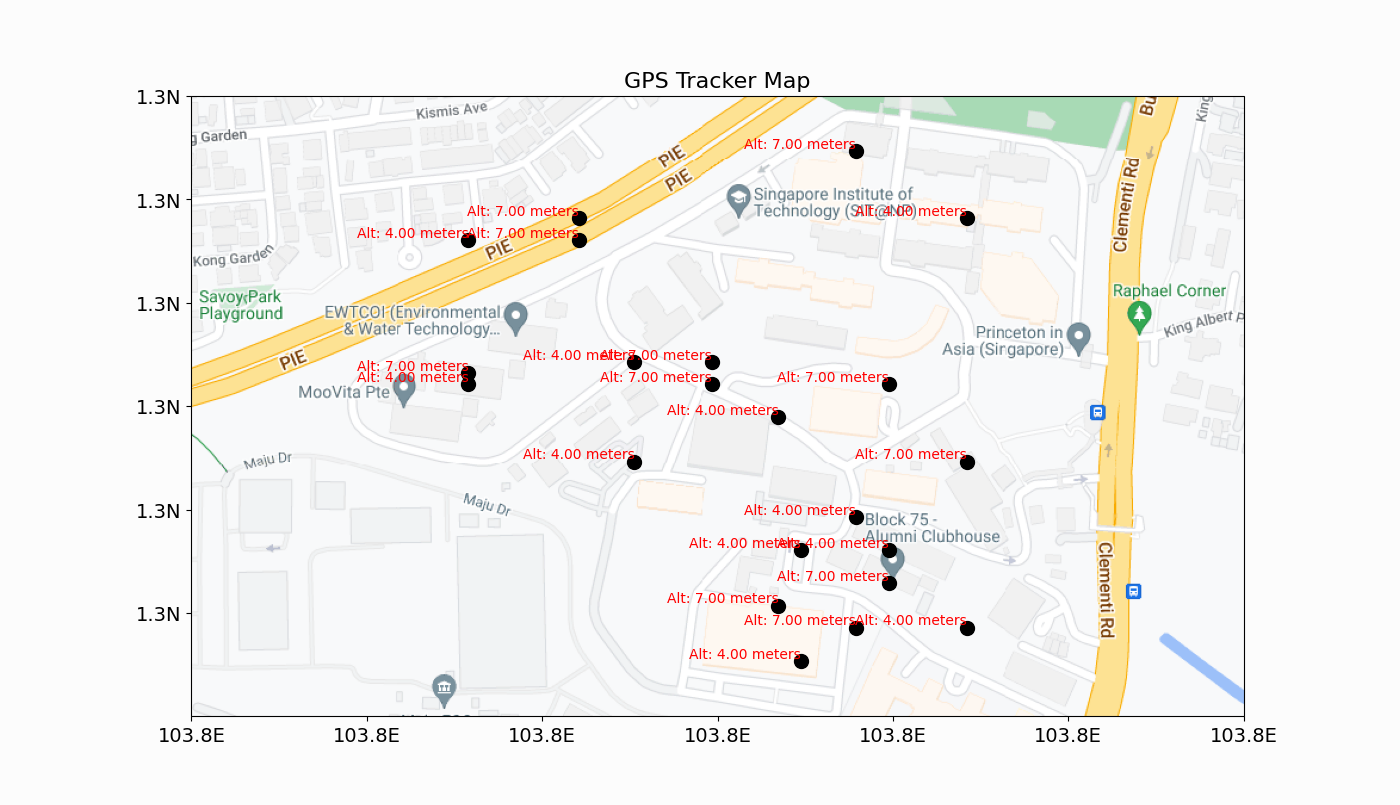
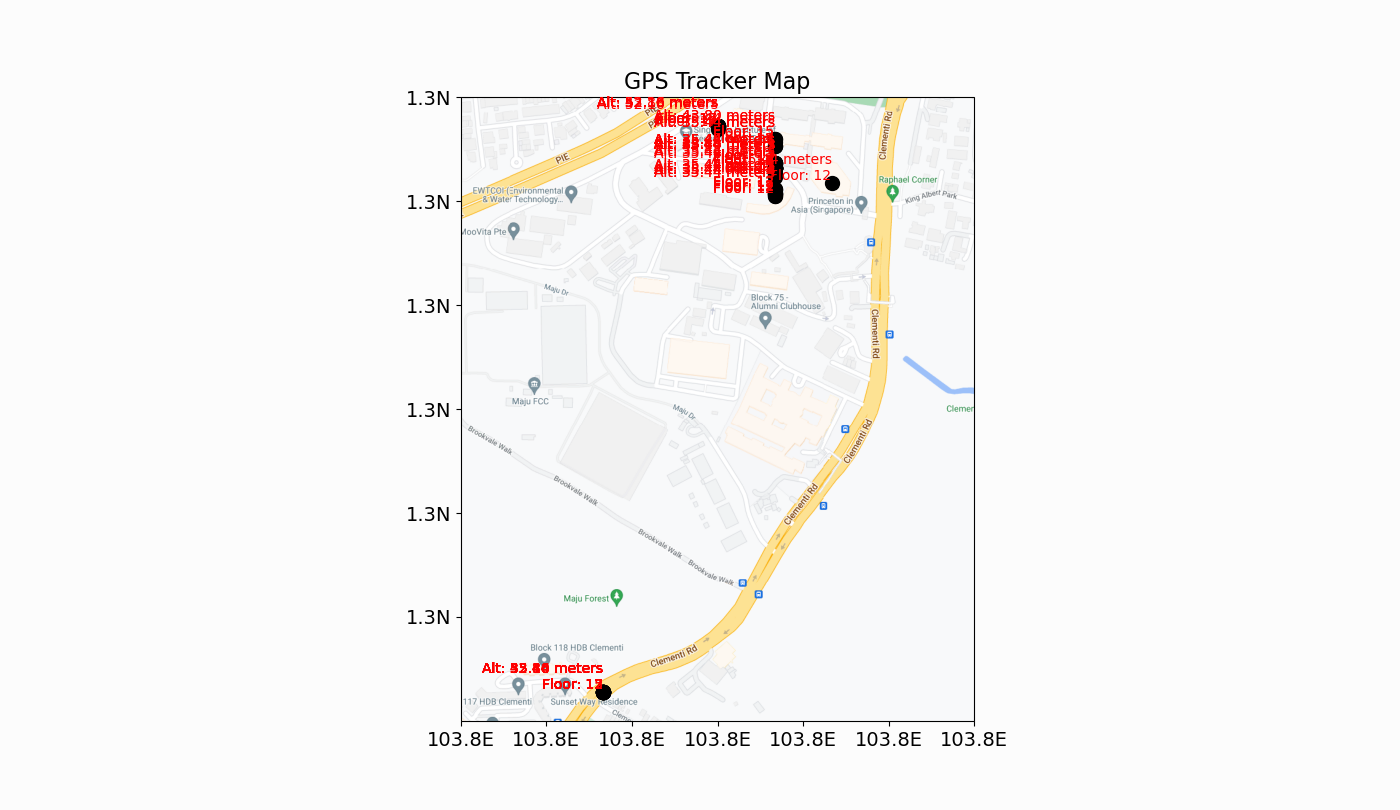
php code to populate drop down for security guard name

diff --git a/index.php b/index.php
@@ -13,16 +13,26 @@
 <link href="https://fonts.googleapis.com/css2?family=Poppins:ital,wght@0,300;0,400;0,600;0,700;1,200&display=swap" rel="stylesheet">
 </head>
 
+<?php
+
+session_start();
+
+include_once("GeoDBConnection.php");
+
+$query = "SELECT SecGuardID, Name FROM secguard";
+$result = $conn->query($query);
+
+?>
 
 
 <body>
     <section class="header">
         <nav>
-            <a href="index.html"><img src="Images/SEER (Name Ver).png"></a>
+            <a href="index.php"><img src="Images/SEER (Name Ver).png"></a>
             <div class="nav-links">
                 <ul>
-                    <li><a href="index.html">HOME</a></li>
-                    <li><a href="about.html">ABOUT</a></li>
+                    <li><a href="index.php">HOME</a></li>
+                    <li><a href="about.php">ABOUT</a></li>
                     <li><a href="">SERVICES</a></li>
                     <li><a href="">CONTACT</a></li> 
                     <li><a href="login.html">LOGIN</a></li> 
@@ -38,15 +48,32 @@
         <p>
             - Select Security Guard's name to track pathway -
         </p><br>
+        
         <label for="guard">Select Security Guard:</label> 
-        <select required name="guard" id="guard"> 
-            <option value="javascript">Tan Ah Beng</option>
-            <option value="python">Lim Peck Gao</option>
-            <option value="c++">Tan Jun Yong</option>
-            <option value="java">Keat Lim</option>
-        </select>
+        <form action="" method="post">
+            <select required name="guard" id="guard"> 
+                <?php
+                // Check if there are any rows in the result set
+                if ($result->num_rows > 0) {
+                    // Loop through each row and generate an option element
+                    while ($row = $result->fetch_assoc()) {
+                        $id = $row['SecGuardID'];
+                        $name = $row['Name'];
+                        echo "<option value='$id'>$name</option>";
+                    }
+                } 
+                else {
+                    echo "<option value='' disabled>No options available</option>";
+                }
+        
+                // Close the database connection
+                $conn->close();
+                ?>
+            </select>
+            <input type="submit" value="Submit">
+        </form>
         <p>
-            <img src="Images/plot.png" alt="Image" width="100%" height="80%">
+           <!-- <img src="Images/plot.png" alt="Image" width="100%" height="80%"> -->
         </p>
         <button onclick="runSeer()"> Run Seer </button>
         <br><br>

diff --git a/python/seer2.py b/python/seer2.py
@@ -11,6 +11,8 @@ from PIL import Image
 plt.ion()
 import pandas as pd
 from sqlalchemy import create_engine
+import sys  
+
 
 # Replace the placeholder values with your actual database credentials
 servername = 'localhost'
@@ -23,7 +25,6 @@ engine = create_engine(connection_string)
 qry = 'SELECT * FROM records;'
 df = pd.read_sql_query(qry,engine)
 
-
 # You can use the DataFrame columns to access specific data
 recordid = df['RecordID'].tolist()
 secguard = df['SecGuardID'].tolist()
@@ -32,6 +33,7 @@ alts = df['Altitude'].tolist()
 lats = df['Latitude'].tolist()
 lons = df['Longitude'].tolist()
 floors = df['Floor'].tolist()
+
 
 def image_spoof(self, tile): 
     api_url = self._image_url(tile) # get the url of the street map API
@@ -43,6 +45,8 @@ def image_spoof(self, tile):
     img = Image.open(im_data) # open image using PIL
     img = img.convert(self.desired_tile_form)  # Convert the image format
     return img, self.tileextent(tile), 'lower' # Return the image, tile extent, and vertical alignment
+
+
 
 cimgt.GoogleTiles.get_image = image_spoof # Spoof the web request for street map
 osm_img = cimgt.GoogleTiles() # Download the spoofed street map using the GoogleTiles class
@@ -93,7 +97,8 @@ for index in range(0, len(lons), 5):
         ax1.text(lons[index], lats[index], annotation_text,
                  fontsize=10, color='red', transform=ccrs.PlateCarree(), ha='right', va='bottom')
 
-        plt.pause(1)
+        plt.pause(0.01)
 else:
     print("Error: lons or lats list is empty.")
 
+plt.savefig('Images/plot.png')

diff --git a/about.php b/about.php
@@ -15,11 +15,11 @@
 <body>
         <section class="sub-header">
           <nav>
-              <a href="index.html"><img src="Images/SEER (Name Ver).png"></a>
+              <a href="index.php"><img src="Images/SEER (Name Ver).png"></a>
               <div class="nav-links">
                   <ul>
-                      <li><a href="index.html">HOME</a></li>
-                      <li><a href="about.html">ABOUT</a></li>
+                      <li><a href="index.php">HOME</a></li>
+                      <li><a href="about.php">ABOUT</a></li>
                       <li><a href="">SERVICES</a></li>
                       <li><a href="">CONTACT</a></li> 
                       <li><a href="login.html">LOGIN</a></li>    

diff --git a/GeoDBConnection.php b/GeoDBConnection.php
@@ -6,14 +6,13 @@ $password = "";
 $database = "geotrackdb";
 
 //Establish connection to MySQL database
-$mysqliconn = new mysqli($serverhostname, $username, $password, $database);
+$conn = new mysqli($serverhostname, $username, $password, $database);
 //Check connection
-if ($mysqliconn->connect_error) {
+if ($conn->connect_error) {
     //Display error message and exit script
     die("Failed to connect to MySQL: " . mysqli_connect_error()); 
     exit();
 }
 
-//Show success message if connection is successful
-echo "Connected successfully";
+
 ?>

diff --git a/checkLogin.php b/checkLogin.php
@@ -19,7 +19,7 @@ if ($result->num_rows > 0) {
     $_SESSION["LoginID"] = $row["LoginID"];
 
     //Redirect to home page
-    header("Location: index.html");
+    header("Location: index.php");
     exit;
 }
 else {
